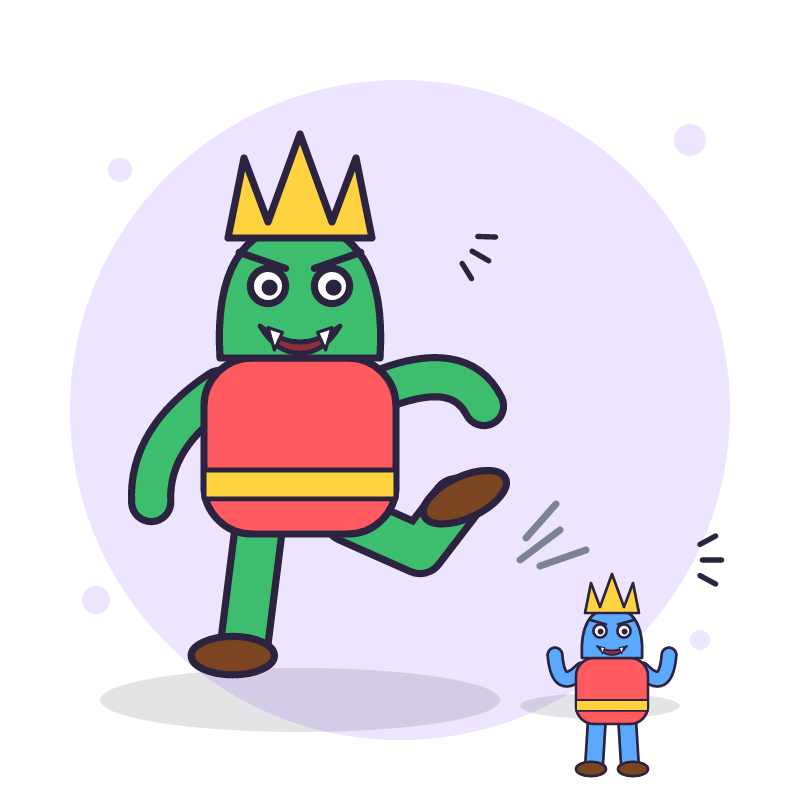
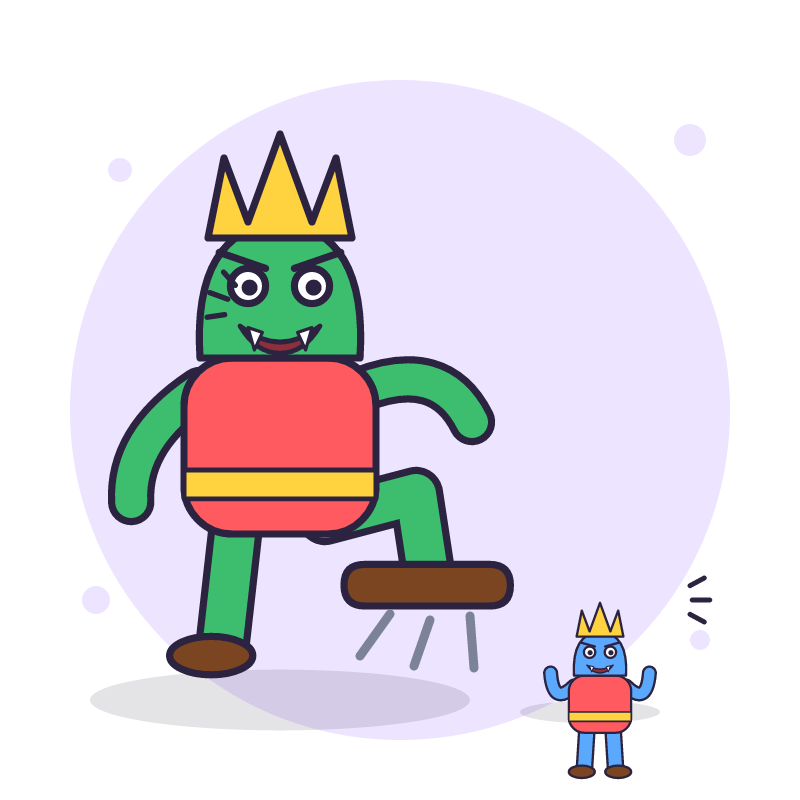
Third pass: elephant, mosquito legs, key in the hole, ankle and foot, stomp

diff --git a/tools/word-art/w_kor.js b/tools/word-art/w_kor.js
@@ -47,22 +47,27 @@ const arrowUp = (x, y, s, color = C.green) => g(path('M0 -120 L90 -10 L36 -10 L3
 W['ไข่'] = (i) => backdrop(i) + shadow(400, 690, 150) + egg(400, 470, 1.6) + g(face(90, { eyes: 'happy' }), at(400, 520)) + sparkle(610, 260, 0.8) + egg(620, 630, 0.4, '#F3D9B1', 20);
 W['ขาว'] = (i) => backdrop(i, { dots: false }) + `<circle cx="400" cy="410" r="330" fill="#DCE6F5"/>` + paint(400, 440, 1.3, '#fff') + g(face(80, { eyes: 'happy' }), at(400, 440)) + sparkle(620, 250, 0.8, '#fff');
 W['ขี่'] = (i) => {
-  const wheel = (x, y) => circle(x, y, 84, 'none', 16) + circle(x, y, 84, 'none', 7).replace(`stroke="${INK}"`, `stroke="${C.grayD}"`);
-  // frame: rear hub (-160,90) crank (20,90) seat (-20,-40) bar (110,-40) grip (206,-128)
-  const bike = g(wheel(-160, 90) + wheel(190, 90) +
-    line('M-160 90 L-20 -40 L110 -40 L190 90 M-20 -40 L20 90 L110 -40 M20 90 L-160 90', 14, C.red) +
-    line('M110 -40 L140 -120 L206 -128', 14, C.grayD) + rect(-74, -66, 96, 22, 11, C.black) +
-    circle(20, 90, 20, C.grayD) + line('M20 90 L70 116 M20 90 L-30 64', 11, C.grayD) +
-    rect(48, 106, 46, 16, 6, C.black) + rect(-54, 54, 46, 16, 6, C.black), at(400, 560));
-  // rider, leaning forward: seat (380,520) grip (606,432) pedals (471,674) (369,622)
-  const rider = g(
-    tube('M0 0 L46 84 L71 154', C.blue, 32) + tube('M0 0 L-24 78 L-31 102', C.blueD, 32) +   // legs to both pedals
-    ellipse(71, 162, 27, 15, C.black, 6) + ellipse(-31, 110, 27, 15, C.black, 6) +
-    path('M-34 -14 Q-52 -110 24 -122 L52 -118 Q86 -112 80 -74 L60 -6 Q20 16 -34 -14Z', C.yellow) +   // torso leaning
-    tube('M56 -104 L146 -74 L206 -88', C.skin, 22) + circle(214, -90, 19, C.skin, 7) +               // arm to the grip
-    g(circle(0, 0, 62, C.skin) + path('M-62 -6 Q-66 -76 0 -72 Q66 -76 62 -6 Q44 -38 12 -34 Q-12 -50 -30 -32 Q-48 -30 -62 -6Z', C.hair) +
-      g(face(60, { eyes: 'happy', mouth: 'big', look: 1 }), at(0, 8)), at(34, -176)), at(380, 520));
-  return backdrop(i) + shadow(400, 700, 240) + bike + rider + motion(120, 450, 0.9, 180);
+  // One local frame for bike + rider (group placed at 400,540).
+  // Contact points: GRIP (196,-150)  PEDAL_F (52,96)  PEDAL_B (-16,150)  SEAT (-40,-70)
+  const GRIP = [196, -150], PF = [52, 96], PB = [-16, 150], SEAT = [-40, -70];
+  const wheel = (x, y) => circle(x, y, 92, 'none', 17) + circle(x, y, 92, 'none', 7).replace(`stroke="${INK}"`, `stroke="${C.grayD}"`);
+  const bike =
+    wheel(-170, 124) + wheel(180, 124) +
+    line('M-170 124 L-40 -50 L96 -50 L180 124 M-40 -50 L18 124 L96 -50 M18 124 L-170 124', 14, C.red) +
+    line('M96 -50 L150 -150 L196 -150', 14, C.grayD) +           // handlebar ends exactly at GRIP
+    rect(-78, -76, 96, 22, 11, C.black) +                        // saddle under SEAT
+    circle(18, 124, 20, C.grayD) + line('M18 124 L52 96 M18 124 L-16 150', 12, C.grayD) +
+    rect(PF[0] - 24, PF[1] - 8, 48, 16, 6, C.black) + rect(PB[0] - 24, PB[1] - 8, 48, 16, 6, C.black);
+  const rider =
+    tube(`M-24 -104 L36 -40 L${PF[0]} ${PF[1] - 14}`, C.blue, 32) +
+    tube(`M-30 -104 L-58 -30 L${PB[0]} ${PB[1] - 14}`, C.blueD, 32) +
+    g(ellipse(0, 0, 27, 15, C.black, 6), at(PF[0], PF[1] - 6)) + g(ellipse(0, 0, 27, 15, C.black, 6), at(PB[0], PB[1] - 6)) +
+    path('M-76 -96 Q-104 -200 -12 -216 L26 -212 Q66 -204 56 -160 L28 -84 Q-24 -60 -76 -96Z', C.yellow) +
+    tube(`M34 -196 L120 -178 L${GRIP[0] - 18} ${GRIP[1] - 10}`, C.skin, 22) +
+    circle(GRIP[0] - 4, GRIP[1] - 6, 20, C.skin, 7) +
+    g(circle(0, 0, 64, C.skin) + path('M-64 -6 Q-68 -78 0 -74 Q68 -78 64 -6 Q46 -40 12 -36 Q-12 -52 -32 -34 Q-50 -32 -64 -6Z', C.hair) +
+      g(face(62, { eyes: 'happy', mouth: 'big', look: 1 }), at(0, 8)), at(0, -274));
+  return backdrop(i) + shadow(400, 690, 250) + g(bike + rider, at(400, 540, 0.92)) + motion(120, 440, 0.9, 180);
 };
 W['แขน'] = (i) => backdrop(i) + shadow(400, 712, 150) + draw(400, 712, 1.35, kid({ shirt: C.red, sleeve: C.skin, arms: { l: [-150, -290], r: [150, -290] }, face: { eyes: 'happy', mouth: 'big' } })) + sparkle(170, 250, 0.8) + sparkle(630, 250, 0.8) + motion(660, 420, 0.7) + motion(140, 420, 0.7, 180);
 W['ข้าว'] = (i) => backdrop(i) + shadow(400, 690, 190) + riceBowl(400, 540, 1.35, C.blue) + tube('M520 330 L450 470', '#D9A066', 10) + tube('M550 340 L470 474', '#D9A066', 10) +
@@ -74,16 +79,19 @@ W['เข็ม'] = (i) => backdrop(i) + g(path('M-14 -260 Q0 -290 14 -260 L10 2
   line('M468 250 Q640 200 620 360 Q600 480 480 470 Q340 460 360 580 Q380 660 520 650', 10, C.red) + g(circle(0, 0, 60, C.pink) + line('M-50 -30 L50 30 M-56 0 L56 0 M-50 30 L50 -30', 5, '#E0559A'), at(560, 650));
 W['เข่า'] = (i) => backdrop(i) + g(L.silhouette((fill, w) => {
     const st = w ? ` stroke="${INK}" stroke-width="${w}" stroke-linejoin="round" stroke-linecap="round"` : '';
-    return `<path d="M-96 -300 L96 -300 L104 -150 Q108 -96 78 -60 L70 -40 Q118 10 110 90 L96 170
-                     Q92 200 62 200 L18 200 Q-12 200 -10 170 L-4 92 Q0 40 -36 6 L-62 -20
-                     Q-104 -60 -102 -150Z" fill="${fill}"${st}/>` +
-      `<path d="M-14 176 Q-18 214 6 226 L128 226 Q158 226 156 206 Q154 186 120 180 L74 168Z" fill="${fill}"${st}/>`;
+    return `<path d="M-84 -300 L92 -300 L104 -170 Q112 -120 86 -92
+                     Q140 -54 138 30 Q136 104 104 150 L98 168
+                     Q94 186 64 186 L34 186 Q10 186 12 166 L20 130
+                     Q42 84 40 34 Q38 -12 -4 -34 Q-70 -68 -76 -160Z" fill="${fill}"${st}/>`;
   }, C.skin) +
-  // knee bump + ankle crease
-  line('M-52 -34 Q4 -66 62 -34', 6, '#E3A377') + line('M-4 150 Q40 162 84 150', 6, '#E3A377') +
-  rect(-110, -340, 220, 90, 26, C.blue), at(400, 400, 0.92)) +
-  g(circle(0, 0, 86, 'none', 11).replace(`stroke="${INK}"`, `stroke="${C.red}"`), at(404, 372)) +
-  g(line('M0 0 L-76 -34', 9, C.red) + path('M-76 -34 L-40 -36 L-52 -10Z', C.red, 0), at(610, 300)) + sparkle(200, 300, 0.7);
+  line('M-24 -104 Q44 -140 96 -104', 6, '#E3A377') +
+  // ankle notch + shoe with the toes pointing right
+  line('M16 140 Q56 150 96 140', 6, '#E3A377') + circle(22, 142, 9, '#E3A377', 0) +
+  path('M6 168 Q-6 206 22 216 L150 216 Q186 216 184 194 Q182 172 140 166 L96 158 L92 168Z', C.black) +
+  line('M30 190 L150 196', 5, '#55506E') +
+  rect(-100, -340, 210, 80, 26, C.blue), at(380, 400, 0.92)) +
+  g(circle(0, 0, 80, 'none', 11).replace(`stroke="${INK}"`, `stroke="${C.red}"`), at(404, 300)) +
+  g(line('M0 0 L-86 -20', 9, C.red) + path('M-86 -20 L-52 -30 L-56 -2Z', C.red, 0), at(620, 300)) + sparkle(200, 620, 0.7);
 W['ค้อน'] = (i) => backdrop(i) + g(rect(-24, -60, 48, 380, 20, C.brownL) + line('M0 -20 L0 300', 5, C.brown) +
   path('M-150 -170 L110 -170 Q160 -170 160 -120 L160 -70 Q160 -20 110 -20 L-150 -20 L-190 -60 L-190 -130Z', C.grayD) + shine(-90, -130, 60, 12, 0, 0.35), at(420, 400, 1, 30)) + star(200, 300, 30) + motion(220, 420, 0.8, 160);
 W['คัน'] = (i) => backdrop(i) + shadow(400, 712, 150) + draw(400, 712, 1.35, kid({ arms: { l: [-40, -150], r: [60, -300] }, face: { mouth: 'wavy', eyes: 'x' }, shirt: C.green,
@@ -127,8 +135,12 @@ W['หญ้าสีเขียว'] = (i) => backdrop(i, { dots: false }) + i
 W['ขายไข่ไก่'] = (i) => backdrop(i) + shadow(400, 700, 240) + table(400, 560, 480) + basketEggs(400, 500, 1.1) +
   g(rect(-90, -60, 180, 90, 12, '#fff') + text(0, 6, 1, '฿5', C.red, 0, 52), at(400, 250)) + line('M400 310 L400 380', 7) + egg(620, 360, 0.35);
 W['ไขกุญแจ'] = (i) => backdrop(i) + shadow(380, 690, 150) + padlock(380, 500, 1.15) +
-  // keyhole is at padlock local (0,20) -> (380,523); the key's bit sits in it
-  g(key(0, 0, 0.9, 0), at(374, 523)) + motion(200, 380, 0.7, 200) + sparkle(620, 300, 0.7);
+  // key comes in at an angle, its bit ending on the keyhole (380,523)
+  g(key(0, 0, 0.78, -18), at(392, 528)) +
+  // the hole drawn again over the tip: the key reads as going into it
+  g(circle(0, 0, 25, INK, 0) + rect(-9, 0, 18, 64, 6, INK, 0), at(380, 520)) +
+  g(path('M-22 -6 A24 24 0 0 1 22 -6 L14 14 L-14 14Z', '#C99A00', 0), at(380, 512)) +
+  motion(210, 380, 0.7, 200) + sparkle(630, 300, 0.7);
 W['ขึ้นข้างบน'] = (i) => backdrop(i, { dots: false }) + inCircle(stairs(400, 560, 1.1)) + draw(312, 560, 0.7, kid({ arms: { l: [-80, -110], r: [120, -230] }, face: { eyes: 'happy', mouth: 'big' } })) + arrowUp(620, 250, 0.7);
 W['กินคุกกี้'] = (i) => backdrop(i) + shadow(400, 712, 150) +
   draw(400, 712, 1.3, girl({ arms: { l: [-110, -130], r: [46, -216] }, face: { eyes: 'happy', mouth: 'chew' } })) +

diff --git a/tools/word-art/w_yor.js b/tools/word-art/w_yor.js
@@ -42,28 +42,29 @@ const soundWaves = (x, y, s) => g(line('M0 -40 Q30 0 0 40 M40 -80 Q90 0 40 80 M8
 
 W['หยุด'] = (i) => backdrop(i) + shadow(400, 690, 90) + stopSign(400, 360, 1.3) + g(hand([true, true, true, true, true]), at(620, 640, 0.5));
 W['ยาย'] = (i) => backdrop(i) + shadow(400, 712, 150) + draw(400, 712, 1.4, grandma({ arms: { l: [-90, -110], r: [90, -110] } })) + heart(610, 270, 0.9, C.pink);
-W['ใหญ่'] = (i) => backdrop(i) + shadow(360, 700, 250) + g(
-  // body + legs first
+W['ใหญ่'] = (i) => backdrop(i) + shadow(380, 706, 240) + g(
   L.silhouette((fill, w) => {
-    const st = w ? ` stroke="${INK}" stroke-width="${w}" stroke-linejoin="round"` : '';
-    return `<ellipse cx="110" cy="-30" rx="170" ry="132" fill="${fill}"${st}/>` +
-      `<rect x="0" y="66" width="78" height="152" rx="36" fill="${fill}"${st}/>` +
-      `<rect x="96" y="72" width="78" height="146" rx="36" fill="${fill}"${st}/>` +
-      `<rect x="186" y="66" width="78" height="152" rx="36" fill="${fill}"${st}/>` +
-      `<rect x="258" y="72" width="74" height="144" rx="34" fill="${fill}"${st}/>` +
-      `<circle cx="-92" cy="-52" r="150" fill="${fill}"${st}/>`;
+    const st = w ? ` stroke="${INK}" stroke-width="${w}" stroke-linejoin="round" stroke-linecap="round"` : '';
+    return `<ellipse cx="150" cy="-40" rx="150" ry="120" fill="${fill}"${st}/>` +      // body
+      `<rect x="50" y="46" width="76" height="160" rx="36" fill="${fill}"${st}/>` +      // legs
+      `<rect x="140" y="52" width="76" height="154" rx="36" fill="${fill}"${st}/>` +
+      `<rect x="222" y="46" width="76" height="160" rx="36" fill="${fill}"${st}/>` +
+      `<rect x="286" y="52" width="72" height="152" rx="34" fill="${fill}"${st}/>` +
+      `<path d="M-30 -160 Q76 -172 84 -60 L84 40 Q80 96 6 96 Q-70 96 -84 20 L-96 -54 Q-100 -150 -30 -160Z" fill="${fill}"${st}/>` +  // head
+      `<path d="M-72 40 Q-96 140 -60 196 Q-24 244 22 212 Q60 186 28 150" fill="none"` +
+      (w ? ` stroke="${INK}" stroke-width="${w + 52}" stroke-linejoin="round" stroke-linecap="round"/>`
+         : ` stroke="${fill}" stroke-width="52" stroke-linejoin="round" stroke-linecap="round"/>`);   // trunk
   }, '#9AA8C9') +
-  line('M20 206 L58 206 M116 206 L154 206 M206 206 L244 206 M276 206 L312 206', 7, '#7F8CAC') +
-  // ear on the head, then the trunk in front of everything
-  path('M-86 -164 Q-236 -186 -252 -52 Q-264 62 -150 74 Q-104 34 -108 -62Z', '#8394B8') +
-  path('M-114 -132 Q-212 -142 -222 -46 Q-228 30 -148 44', 'none', 5) +
-  tube('M-170 20 Q-214 110 -180 176 Q-150 232 -96 208 Q-56 190 -80 154', '#9AA8C9', 58) +
-  path('M-96 44 L-40 104 L-124 106Z', '#F6F2E6', 6) +
-  `<ellipse cx="-80" cy="-84" rx="15" ry="18" fill="${INK}"/><circle cx="-75" cy="-90" r="6" fill="#fff"/>` +
-  ellipse(-128, -16, 26, 15, C.blush, 0) +
-  line('M-190 70 Q-208 120 -188 160 M-158 96 Q-172 136 -156 168', 5, '#7F8CAC') +
-  tube('M276 -74 Q328 -44 312 12', '#9AA8C9', 12), at(390, 466, 0.88)) +
-  draw(650, 700, 0.4, mouse(0, 0, 1)) + sparkle(200, 250, 0.7);
+  // ear behind the eye, tusks either side of the trunk
+  path('M64 -132 Q186 -150 196 -40 Q204 54 104 62 Q72 22 68 -50Z', '#8394B8') +
+  path('M84 -104 Q166 -116 176 -40 Q182 26 108 36', 'none', 5) +
+  path('M-66 16 L-16 74 L-98 76Z', '#F6F2E6', 6) +
+  `<ellipse cx="4" cy="-84" rx="16" ry="19" fill="${INK}"/><circle cx="10" cy="-91" r="6" fill="#fff"/>` +
+  line('M-24 -126 Q4 -138 30 -124', 5, '#7F8CAC') + ellipse(-54, -24, 24, 14, C.blush, 0) +
+  line('M-88 82 Q-104 130 -84 166 M-58 106 Q-72 142 -56 176', 5, '#7F8CAC') +
+  line('M68 192 L108 192 M160 192 L200 192 M240 192 L280 192 M306 192 L342 192', 7, '#7F8CAC') +
+  tube('M298 -84 Q352 -54 336 4', '#9AA8C9', 12), at(360, 480, 0.84)) +
+  draw(668, 706, 0.34, mouse(0, 0, 1)) + sparkle(210, 250, 0.7);
 W['ยาม'] = (i) => backdrop(i) + shadow(400, 712, 150) + draw(400, 712, 1.35, man({ shirt: '#3C5AA6', pants: '#26335E', arms: { l: [-80, -100], r: [110, -170] }, face: { mouth: 'smile' },
   hat: (hy) => g(path('M-90 0 Q-80 -80 0 -84 Q80 -80 90 0Z', '#26335E') + path('M-96 0 L100 0 L130 24 L-96 20Z', C.black) + circle(0, -40, 18, C.yellow, 6), at(0, hy - 40)),
   torsoExtra: rect(20, -170, 26, 30, 6, C.yellow, 5) })) + g(rect(-20, -60, 40, 90, 16, C.black) + circle(0, -70, 20, C.yellow), at(560, 450)) + star(200, 260, 26);
@@ -85,8 +86,7 @@ W['ยุง'] = (i) => backdrop(i) + g(
   path('M-40 -22 Q40 -100 150 -50 Q60 -28 -20 -6Z', '#DDF3FF', 7) +
   ellipse(60, 30, 130, 46, '#5C6080', 9, 12) + line('M10 16 L2 56 M60 24 L54 66 M110 34 L106 72', 6, '#43466088') +
   ellipse(-56, -6, 54, 44, '#6B6E8A') +
-  line('M-30 34 L-70 150 M30 40 L20 156 M96 52 L150 150', 9) +
-  line('M-54 100 L-120 120 M22 108 L-32 140 M120 104 L176 122', 7) +
+  line('M-30 34 L-74 152 M30 40 L18 158 M96 52 L156 150', 9) +
   circle(-118, -30, 40, '#5C6080') + circle(-132, -44, 13, '#fff', 0) + circle(-128, -40, 6, INK, 0) +
   line('M-152 -6 L-250 60', 9) + line('M-136 -70 L-166 -126 M-108 -72 L-96 -134', 6), at(430, 400, 1.05)) +
   g(line('M0 0 q22 -22 44 0 q22 22 44 0', 6, C.grayD), at(150, 650)) + sparkle(640, 620, 0.6);

diff --git a/tools/word-art/w_sent.js b/tools/word-art/w_sent.js
@@ -122,23 +122,22 @@ W['เด็กเล่นหุ่นยนต์ตอนเย็น'] = (i)
   draw(260, 712, 1.1, kid({ arms: { l: [-90, -120], r: [120, -190] }, face: { eyes: 'happy', mouth: 'big' } })) + robot(540, 560, 0.72, { wave: true });
 W['คุณย่ากินลำไยยามเย็น'] = (i) => backdrop(i, { dots: false }) + `<circle cx="400" cy="410" r="330" fill="#FFD7B5"/>` + circle(630, 260, 60, C.orange) + shadow(400, 712, 160) +
   draw(360, 712, 1.3, grandma({ hair: 'grayShort', shirt: C.teal, arms: { l: [-80, -110], r: [40, -205] }, face: { eyes: 'happy', mouth: 'chew' } })) + Y.longan(580, 600, 0.45);
-W['ยักษ์ใหญ่ไล่เหยียบยักษ์เล็ก'] = (i) => backdrop(i) + shadow(300, 700, 200) + shadow(600, 706, 80) +
-  // standing leg down, the other lifted high and about to stomp
+W['ยักษ์ใหญ่ไล่เหยียบยักษ์เล็ก'] = (i) => backdrop(i) + shadow(280, 700, 190) + shadow(590, 712, 70) +
   g(L.g(
-    tube('M-50 60 L-70 220', '#3DBE6E', 50) + ellipse(-84, 232, 52, 24, C.brownD) +
-    tube('M60 60 L150 100 L196 40', '#3DBE6E', 50) + g(ellipse(0, 0, 56, 26, C.brownD), at(206, 34, 1, -25)) +
-    tube('M-100 -100 Q-190 -40 -186 40', '#3DBE6E', 40) + tube('M100 -100 Q200 -140 230 -80', '#3DBE6E', 40) +
+    tube('M-54 60 L-72 220', '#3DBE6E', 50) + ellipse(-86, 232, 52, 24, C.brownD) +
+    tube('M56 60 L170 30 L184 122', '#3DBE6E', 50) +
+    g(path('M-78 -22 L78 -22 Q104 -22 104 4 Q104 30 78 30 L-78 30 Q-104 30 -104 4 Q-104 -22 -78 -22Z', C.brownD), at(184, 140)) +
+    tube('M-100 -100 Q-190 -40 -186 40', '#3DBE6E', 40) + tube('M100 -100 Q200 -140 240 -60', '#3DBE6E', 40) +
     L.rect(-120, -140, 240, 220, 60, C.red) + L.rect(-120, 0, 240, 36, 0, C.yellow, 6) +
     path('M-100 -140 Q-110 -300 0 -310 Q110 -300 100 -140Z', '#3DBE6E') +
     path('M-90 -290 L-70 -390 L-40 -310 L0 -420 L40 -310 L70 -390 L90 -290Z', C.yellow) +
     circle(-40, -230, 22, '#fff') + circle(40, -230, 22, '#fff') + circle(-38, -228, 10, INK, 0) + circle(42, -228, 10, INK, 0) +
     line('M-76 -272 L-18 -252 M76 -272 L18 -252', 9) +
     path('M-50 -180 Q0 -140 50 -180 Q30 -146 0 -146 Q-30 -146 -50 -180Z', '#8E2F3C', 6) +
-    path('M-40 -178 L-32 -150 L-22 -172Z M40 -178 L32 -150 L22 -172Z', '#fff', 4), at(0, 0)), at(300, 470, 0.8)) +
-  // little giant scrambling away under the raised foot
-  g(giant(0, 0, 0.3, '#5AA9FF', { armL: '-190 -150', armR: '190 -150' }), at(612, 700)) +
-  motion(700, 560, 0.6) + motion(470, 250, 0.6, 30) +
-  g(line('M0 0 L40 -30 M20 6 L66 -10 M6 -22 L36 -56', 7, C.grayD), at(520, 560));
+    path('M-40 -178 L-32 -150 L-22 -172Z M40 -178 L32 -150 L22 -172Z', '#fff', 4), at(0, 0)), at(280, 470, 0.8)) +
+  g(giant(0, 0, 0.26, '#5AA9FF', { armL: '-190 -150', armR: '190 -150' }), at(600, 712)) +
+  g(line('M0 0 L-16 46 M40 -4 L44 48 M-40 -6 L-70 36', 9, C.grayD), at(430, 620)) +
+  motion(690, 600, 0.55) + motion(230, 300, 0.6, 200);
 W['เขาเคยขายไข่ข้าว'] = (i) => backdrop(i) + shadow(400, 700, 250) + draw(400, 560, 0.95, man({ arms: { l: [-110, -150], r: [110, -150] }, face: { eyes: 'happy', mouth: 'big' }, shirt: C.orange })) +
   K.stall(400, 620, 0.9, K.egg(-120, -80, 0.35) + K.egg(-80, -90, 0.35, '#F3D9B1') + K.riceBowl(100, -80, 0.35, C.blue), false);
 W['พวกเขาซื้อขนมเค้กทุกคน'] = (i) => backdrop(i) + shadow(400, 712, 260) +
